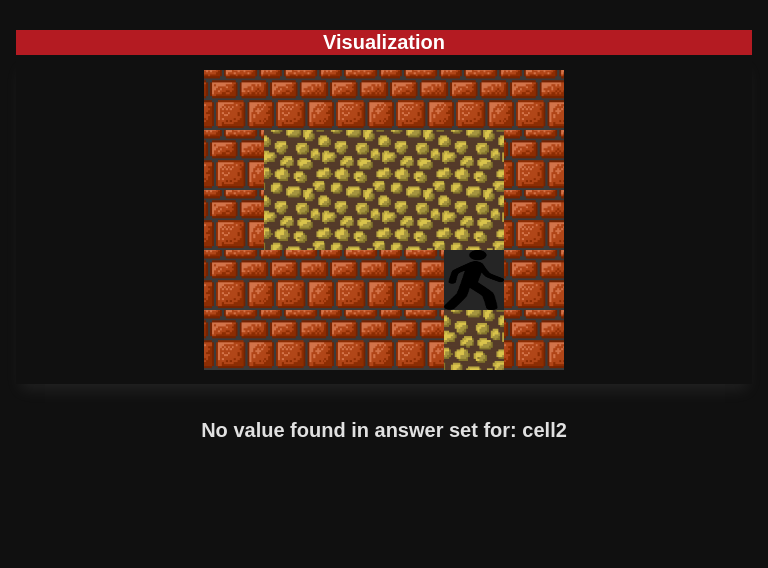
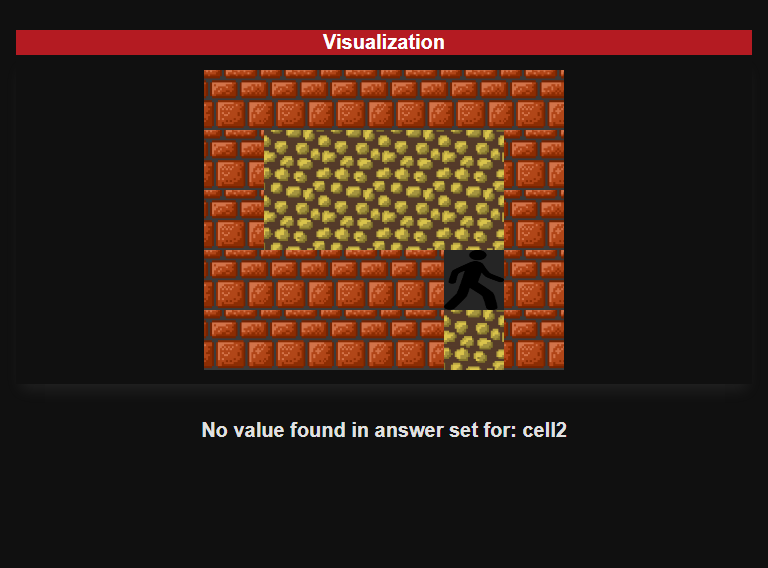
Fixed acceptance plus css fixes

Changed region(s): [[0.25, 0.7482, 0.75, 0.7782], [0.4062, 0.0599, 0.5938, 0.0898]]

diff --git a/src/visualizer-matrix/src/test_acceptance/test_acceptance_visualization_matrix.test.ts b/src/visualizer-matrix/src/test_acceptance/test_acceptance_visualization_matrix.test.ts
@@ -63,7 +63,7 @@ describe('acceptance tests ', () => { // the tests container
         matrix_creator.run_script(matrix_creator.answer_sets)
         
         
-        expect(create_image_from_html_mock.getCall(0).args[1].replace(/\s/g, "")).to.eql('<html><head><style>html{background-color:#101010;color:#e1e1e1;font-family:Arial;}strong{color:#e1e1e1;font-size:20px;}body{background-color:#101010;color:#e1e1e1;margin:1em;display:flex;justify-content:space-evenly;align-items:center;gap:20px;padding:1em;flex-direction:column;margin:1em;padding-top:1em;height:auto;}td{padding:12px15px;}thead{background-color:#b41b22;color:#ffffff;width:100%;font-size:20;font-family:Arial;font-weight:bold;text-align:center;display:table-caption;}tbodytr{border-bottom:1pxsolid#e1e1e1;background-color:#252525;}table{border-collapse:collapse;margin:1em;width:100%;font-size:0.9em;font-family:sans-serif;min-width:400px;box-shadow:0px10px15px-5pxrgba(200,200,200,0.10);color:#e1e1e1;}.titolo{display:flex;justify-content:space-around;align-items:center;}</style></head><body><table><thead><trclass="titolo"><th>Answerset</th><th>Mappedvalue:cell</th></tr></thead><tbody><tr><td></td><td>0</td><td>1</td></tr><tr><td>0</td><td>Notdefined</td><td>peppe</td></tr></tbody></table><table><thead><trclass="titolo"><th>Answerset</th><th>Mappedvalue:cell2</th></tr></thead><tbody><tr><td></td><td>0</td><td>1</td></tr><tr><td>0</td><td>cell21</td><td>cell22</td></tr></tbody></table></body></html>'.replace(/\s/g, ""))
+        expect(create_image_from_html_mock.getCall(0).args[1].replace(/\s/g, "")).to.eql('<html><head><style>html{background-color:#101010;color:#e1e1e1;font-family:Arial;}strong{color:#e1e1e1;font-size:20px;}body{background-color:#101010;color:#e1e1e1;margin:1em;display:flex;justify-content:space-evenly;align-items:center;gap:20px;padding:1em;flex-direction:column;margin:1em;padding-top:1em;height:-webkit-fill-available;height:auto;}td{padding:12px15px;}thead{background-color:#b41b22;color:#ffffff;width:100%;font-size:20;font-family:Arial;font-weight:bold;text-align:center;display:table-caption;}tbodytr{border-bottom:1pxsolid#e1e1e1;background-color:#252525;}table{border-collapse:collapse;margin:1em;width:100%;font-size:0.9em;font-family:sans-serif;min-width:400px;box-shadow:0px10px15px-5pxrgba(200,200,200,0.10);color:#e1e1e1;}.titolo{display:flex;justify-content:space-around;align-items:center;}</style></head><body><table><thead><trclass="titolo"><th>Answerset</th><th>Mappedvalue:cell</th></tr></thead><tbody><tr><td></td><td>0</td><td>1</td></tr><tr><td>0</td><td>Notdefined</td><td>peppe</td></tr></tbody></table><table><thead><trclass="titolo"><th>Answerset</th><th>Mappedvalue:cell2</th></tr></thead><tbody><tr><td></td><td>0</td><td>1</td></tr><tr><td>0</td><td>cell21</td><td>cell22</td></tr></tbody></table></body></html>'.replace(/\s/g, ""))
     
     
     });
@@ -108,7 +108,7 @@ describe('acceptance tests ', () => { // the tests container
         matrix_creator.run_script(matrix_creator.answer_sets)
         
         
-        expect(create_image_from_html_mock.getCall(0).args[1].replace(/\s/g, "")).to.eql('<html><head><style>html{background-color:#ebebeb;color:#000000;font-family:Arial;}strong{color:#000000;font-size:20px;}body{background-color:#ebebeb;color:#000000;margin:1em;display:flex;justify-content:space-evenly;align-items:center;gap:20px;padding:1em;flex-direction:column;margin:1em;padding-top:1em;height:auto;}td{padding:12px15px;}thead{background-color:#b41b22;color:#ffffff;width:100%;font-size:20;font-family:Arial;font-weight:bold;text-align:center;display:table-caption;}tbodytr{border-bottom:1pxsolid#878787;background-color:#f8f8f8;}table{border-collapse:collapse;margin:1em;width:100%;font-size:0.9em;font-family:sans-serif;min-width:400px;box-shadow:0px10px15px-5pxrgba(0,0,0,0.15);color:#000000;}.titolo{display:flex;justify-content:space-around;align-items:center;}</style></head><body><table><thead><trclass="titolo"><th>Answerset</th><th>Mappedvalue:cell</th></tr></thead><tbody><tr><td></td><td>0</td><td>1</td></tr><tr><td>0</td><td>Notdefined</td><td>peppe</td></tr></tbody></table><table><thead><trclass="titolo"><th>Answerset</th><th>Mappedvalue:cell2</th></tr></thead><tbody><tr><td></td><td>0</td><td>1</td></tr><tr><td>0</td><td>cell21</td><td>cell22</td></tr></tbody></table></body></html>'.replace(/\s/g, ""))
+        expect(create_image_from_html_mock.getCall(0).args[1].replace(/\s/g, "")).to.eql('<html><head><style>html{background-color:#ebebeb;color:#000000;font-family:Arial;}strong{color:#000000;font-size:20px;}body{background-color:#ebebeb;color:#000000;margin:1em;display:flex;justify-content:space-evenly;align-items:center;gap:20px;padding:1em;flex-direction:column;margin:1em;padding-top:1em;height:-webkit-fill-available;height:auto;}td{padding:12px15px;}thead{background-color:#b41b22;color:#ffffff;width:100%;font-size:20;font-family:Arial;font-weight:bold;text-align:center;display:table-caption;}tbodytr{border-bottom:1pxsolid#878787;background-color:#f8f8f8;}table{border-collapse:collapse;margin:1em;width:100%;font-size:0.9em;font-family:sans-serif;min-width:400px;box-shadow:0px10px15px-5pxrgba(0,0,0,0.15);color:#000000;}.titolo{display:flex;justify-content:space-around;align-items:center;}</style></head><body><table><thead><trclass="titolo"><th>Answerset</th><th>Mappedvalue:cell</th></tr></thead><tbody><tr><td></td><td>0</td><td>1</td></tr><tr><td>0</td><td>Notdefined</td><td>peppe</td></tr></tbody></table><table><thead><trclass="titolo"><th>Answerset</th><th>Mappedvalue:cell2</th></tr></thead><tbody><tr><td></td><td>0</td><td>1</td></tr><tr><td>0</td><td>cell21</td><td>cell22</td></tr></tbody></table></body></html>'.replace(/\s/g, ""))
     
     
     });

diff --git a/src/visualizer-matrix/src/tests/table_visualization.test.ts b/src/visualizer-matrix/src/tests/table_visualization.test.ts
@@ -279,15 +279,10 @@ describe("[table] create_table_html method tests", () => {
 
     it('create_html_to_convert_in_image returns the right string when we pass every table html ', () => { // the single test
 
-        let table_html: string ='table';
+        let table_html: string ='table_value';
         let obtained_table_html:string = table_creator.create_html_to_convert_in_image(table_html).replace(/\s/g, "");
-<<<<<<< HEAD
-        let expected_table_html:string = `<html><head><style>html{background-color:#101010;color:#e1e1e1;font-family:Arial;}strong{color:#e1e1e1;font-size:20px;}body{background-color:#101010;color:#e1e1e1;margin:1em;display:flex;justify-content:space-evenly;align-items:center;gap:20px;padding:1em;flex-direction:column;margin:1em;padding-top:1em;height:auto;}td{padding:12px15px;}thead{background-color:#b41b22;color:#ffffff;width:100%;font-size:20;font-family:Arial;font-weight:bold;text-align:center;display:table-caption;}tbodytr{border-bottom:1pxsolid#e1e1e1;background-color:#252525;}table{border-collapse:collapse;margin:1em;width:100%;font-size:0.9em;font-family:sans-serif;min-width:400px;box-shadow:0px10px15px-5pxrgba(200,200,200,0.10);color:#e1e1e1;}.fieldStyle{background-color:#b41b22;color:#ffffff;font-size:20;font-family:Arial;font-weight:bold;font-style:italic;text-align:center;}.titolo{display:flex;justify-content:space-around;align-items:center;}</style></head><body>table</body></html>`;
-=======
-        let expected_table_html:string = `<html><head><style>html{background-color:#101010;color:#e1e1e1;font-family:Arial;}strong{color:#e1e1e1;font-size:20px;}body{background-color:#101010;color:#e1e1e1;margin:1em;display:flex;justify-content:space-evenly;align-items:center;gap:20px;padding:1em;flex-direction:column;margin:1em;padding-top:1em;height:auto;}td{padding:12px15px;}thead{background-color:#b41b22;color:#ffffff;width:100%;font-size:20;font-family:Arial;font-weight:bold;text-align:center;display:table-caption;}tbodytr{border-bottom:1pxsolid#e1e1e1;background-color:#252525;}table{border-collapse:collapse;margin:1em;width:100%;font-size:0.9em;font-family:sans-serif;min-width:400px;box-shadow:0px10px15px-5pxrgba(200,200,200,0.10);color:#e1e1e1;}.fieldStyle{background-color:#b41b22;color:#ffffff;font-size:20;font-family:Arial;font-weight:bold;font-style:italic;text-align:center;}.titolo{display:flex;justify-content:space-around;align-items:center;}</style></head><body>`+table_html+`</body></html>`;
->>>>>>> master
-
-        expect(obtained_table_html).to.eql(expected_table_html);
+        let expected_table_html = table_html;
+        expect(obtained_table_html).to.contain(expected_table_html);
     });
 
     //test dark mode

diff --git a/src/visualizer-matrix/preview_matrix.html b/src/visualizer-matrix/preview_matrix.html
@@ -23,10 +23,7 @@
             flex-direction: column;
             margin: 1em;
             padding-top: 1em;
-<<<<<<< HEAD
-=======
             height: -webkit-fill-available;
->>>>>>> master
             height: auto;
         }
         td {
@@ -43,13 +40,8 @@
             display: table-caption;
         }
         tbody tr {
-<<<<<<< HEAD
             border-bottom: 1px solid #878787;
             background-color: #f8f8f8;
-=======
-            border-bottom: 1px solid #e1e1e1;
-            background-color: #252525;
->>>>>>> master
         }
         table {
             border-collapse: collapse;
@@ -70,9 +62,5 @@
         }
     </style>
             </head>
-<<<<<<< HEAD
             <body><strong>No value found in answer set for: cell</strong><br><strong>No value found in answer set for: cell2</strong><br></body>
-=======
-            <body>string</body>
->>>>>>> master
         </html>

diff --git a/src/visualizer-matrix/preview_table.html b/src/visualizer-matrix/preview_table.html
@@ -24,10 +24,7 @@
         margin: 1em;
         padding-top: 1em;
         height: auto;
-<<<<<<< HEAD
-=======
        
->>>>>>> master
     }
     td {
         padding: 12px 15px;
@@ -45,6 +42,7 @@
     tbody tr {
         border-bottom: 1px solid #e1e1e1;
         background-color: #252525;
+        text-align:center;
     }
     table {
         border-collapse: collapse;
@@ -75,5 +73,5 @@
     }
 </style>
             </head>
-            <body>table</body>
+            <body>table_value</body>
         </html>

diff --git a/src/visualizer-matrix/src/table_visualization.ts b/src/visualizer-matrix/src/table_visualization.ts
@@ -153,10 +153,7 @@ export class TableCreator{
         margin: 1em;
         padding-top: 1em;
         height: auto;
-<<<<<<< HEAD
-=======
        
->>>>>>> master
     }
     td {
         padding: 12px 15px;
@@ -174,6 +171,7 @@ export class TableCreator{
     tbody tr {
         border-bottom: ${this.base_styling.table_bottom_border};
         background-color: ${this.base_styling.table_background_color};
+        text-align:center;
     }
     table {
         border-collapse: collapse;

diff --git a/src/visualizer-matrix/src/matrix_images_visualization.ts b/src/visualizer-matrix/src/matrix_images_visualization.ts
@@ -107,14 +107,10 @@ export class MatrixImagesCreator {
         }
        return false;
 
-<<<<<<< HEAD
-        
-=======
          
               
 
         return false;
->>>>>>> master
     }
 
 
@@ -200,10 +196,7 @@ export class MatrixImagesCreator {
             flex-direction: column;
             margin: 1em;
             padding-top: 1em;
-<<<<<<< HEAD
-=======
             height: -webkit-fill-available;
->>>>>>> master
             height: auto;
         }
         td {

diff --git a/src/visualizer-matrix/src/matrix_visualization.ts b/src/visualizer-matrix/src/matrix_visualization.ts
@@ -193,10 +193,7 @@ export class MatrixCreator {
             flex-direction: column;
             margin: 1em;
             padding-top: 1em;
-<<<<<<< HEAD
-=======
             height: -webkit-fill-available;
->>>>>>> master
             height: auto;
         }
         td {
